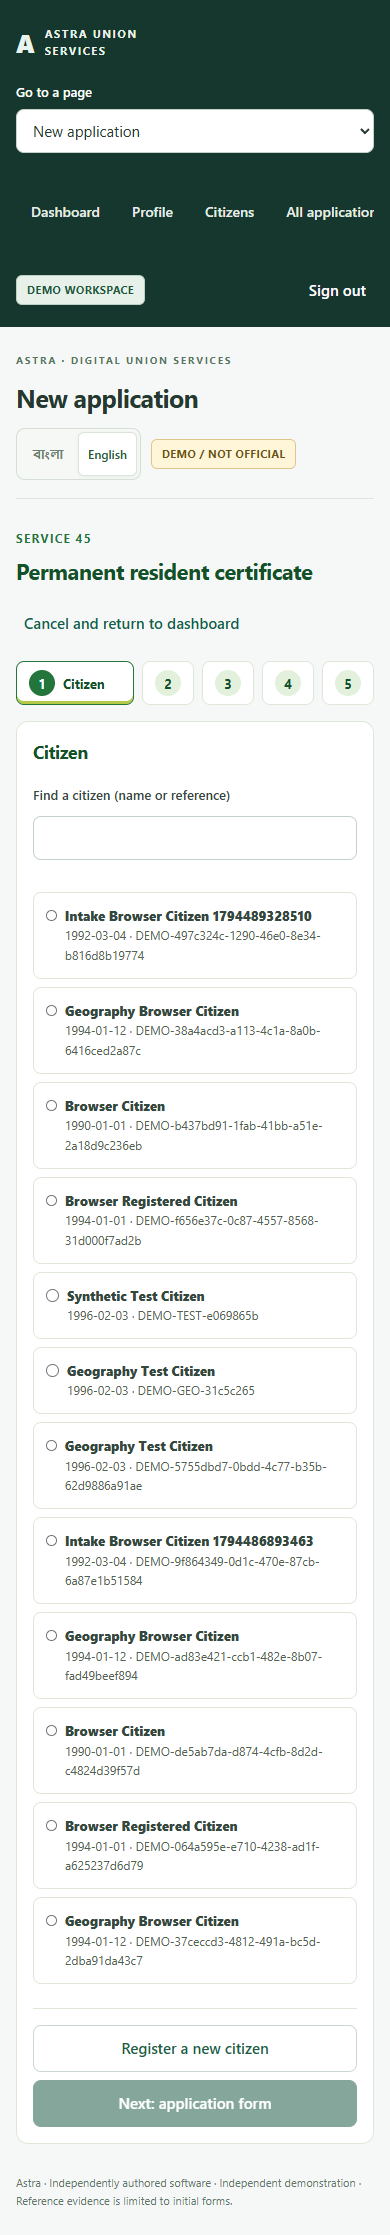
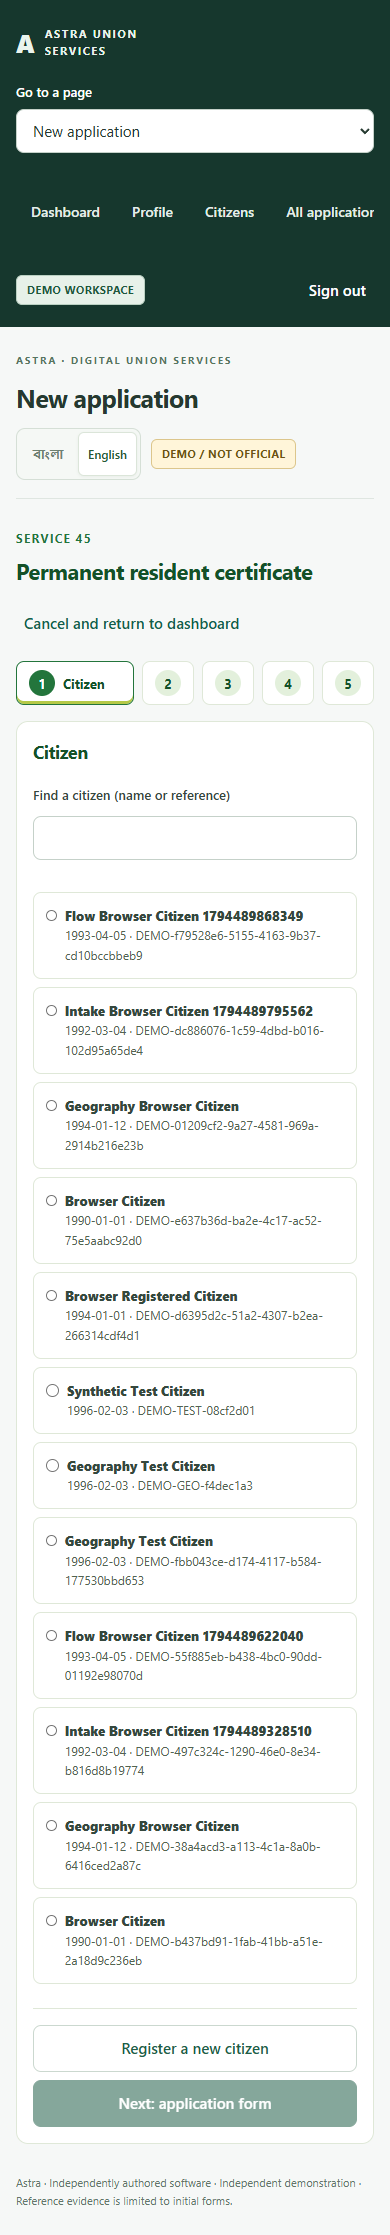
feat: make the approved guided application flow the default
The owner approved slice (iii); it is no longer behind ?preview=flow.

- A dashboard tile now opens the guided flow for that service.
- "Register a new citizen" from the flow opens Citizens with the
  existing "Back to application" banner; after registration the flow
  reopens at the form step with the new citizen selected
  (ServiceFlow initialCitizen). The legacy intake keeps its own return.
- Tests: the flow test runs without a flag and now covers registering a
  citizen and returning to the flow; the dashboard test expects tile 42
  to open the flow.

diff --git a/apps/web/test/service-flow-browser.test.ts b/apps/web/test/service-flow-browser.test.ts
@@ -53,7 +53,7 @@ async function completeFees(page: Page) {
 }
 
 test(
-  "Phase 1 service flow preview: citizen → form → fees → review → submitted, with validation and back navigation",
+  "Phase 1 service flow: citizen → form → fees → review → submitted, validation, back navigation and new-citizen return",
   { timeout: 150000 },
   async () => {
     const browser = await browserInstance();
@@ -61,7 +61,7 @@ test(
       const page = await browser.newPage({ viewport: { width: 1366, height: 900 } });
       const errors: string[] = [];
       page.on("pageerror", (error) => errors.push(error.message));
-      await signIn(page, "?preview=flow");
+      await signIn(page, "");
       await page.locator('.ax-dashboard .ax-tile[data-service="45"]').click();
 
       // Step 1: citizen.
@@ -121,16 +121,42 @@ test(
       await page.getByRole("button", { name: "Open application" }).click();
       await page.getByText(reference.slice(0, 8)).first().waitFor();
 
-      // Without ?preview=flow the dashboard tile still opens the legacy intake page.
-      const plain = await browser.newPage({ viewport: { width: 1366, height: 900 } });
-      await signIn(plain, "");
-      await plain.locator('.ax-dashboard .ax-tile[data-service="45"]').click();
-      await plain.locator(".catalog .service.selected").waitFor();
-      assert.equal(await plain.locator(".ax-flow").count(), 0);
+      // Registering a new citizen from the flow returns to it at the form, with that citizen chosen.
+      await page.getByRole("navigation", { name: "Workspace navigation" }).getByRole("button", { name: "Dashboard" }).click();
+      await page.locator('.ax-dashboard .ax-tile[data-service="42"]').click();
+      await stepHeading(page).getByText("Citizen", { exact: true }).waitFor();
+      await page.getByRole("button", { name: "Register a new citizen", exact: true }).click();
+      const name = `Flow Browser Citizen ${Date.now()}`;
+      await page.getByLabel("Name (English)", { exact: true }).fill(name);
+      await page.getByLabel("Name (Bangla)", { exact: true }).fill("ফ্লো পরীক্ষার নমুনা নাগরিক");
+      await page.getByLabel("Date of birth", { exact: true }).fill("1993-04-05");
+      await page.getByLabel("Address (Bangla)", { exact: true }).fill("নমুনা পরীক্ষার গ্রাম");
+      await page.getByLabel("Address (English)", { exact: true }).fill("Synthetic Flow Village");
+      const union = JSON.parse(fs.readFileSync("data/geo/unions.json", "utf8")).find(
+        (row: any) => row.upazilaCode === "upa-001",
+      );
+      for (const [level, code] of [
+        ["division", "div-01"],
+        ["district", "dis-01"],
+        ["upazila", "upa-001"],
+        ["union", union.code],
+        ["ward", `${union.code}-w01`],
+      ]) {
+        await page.locator(`#citizen-geo-${level} option[value="${code}"]`).waitFor({ state: "attached" });
+        await page.locator(`#citizen-geo-${level}`).selectOption(code);
+      }
+      const registered = page.waitForResponse(
+        (r) => r.url().endsWith("/citizens") && r.request().method() === "POST",
+      );
+      await page.getByRole("button", { name: "Register citizen", exact: true }).click();
+      assert.equal((await registered).status(), 201);
+      await stepHeading(page).getByText("Application form", { exact: true }).waitFor();
+      assert.match((await page.locator(".ax-flow").textContent()) ?? "", new RegExp(name));
+      assert.match((await page.locator(".ax-flow-title").textContent()) ?? "", /Trade licen/);
 
       // Mobile: the stepper collapses and the page does not scroll sideways.
       const mobile = await browser.newPage({ viewport: { width: 390, height: 844 } });
-      await signIn(mobile, "?preview=flow");
+      await signIn(mobile, "");
       await mobile.locator('.ax-dashboard .ax-tile[data-service="45"]').click();
       await mobile.locator(".ax-citizen").first().waitFor();
       assert.equal(

diff --git a/apps/web/src/WorkspaceApp.tsx b/apps/web/src/WorkspaceApp.tsx
@@ -131,9 +131,10 @@ export function WorkspaceApp({
     [wallet, setWallet] = useState<any>(null),
     [billing, setBilling] = useState<any>(null),
     [tenants, setTenants] = useState<any[]>([]);
-  // Phase 1 slice (iii) preview: guided application flow, opt-in with ?preview=flow until approved.
+  // Phase 1 slice (iii), approved: dashboard tiles open the guided application flow.
   const [flowService, setFlowService] = useState<number | null>(null);
-  const flowPreview = new URLSearchParams(location.search).get("preview") === "flow";
+  const [flowCitizen, setFlowCitizen] = useState<any>(null);
+  const [returnToFlow, setReturnToFlow] = useState(false);
   const [selectedService, setSelectedService] = useState(45),
     [preview, setPreview] = useState(false),
     [payload, setPayload] = useState<Record<string, any>>({}),
@@ -421,6 +422,7 @@ export function WorkspaceApp({
   }
   function nav(next: string) {
     setReturnToIntake(false);
+    setReturnToFlow(false);
     setPage(next);
     setDetail(null);
     setMessage("");
@@ -661,11 +663,17 @@ export function WorkspaceApp({
         )}
         {page === "flow" && flowService !== null && (
           <ServiceFlow
+            key={`${flowService}:${flowCitizen?.id ?? ""}`}
             serviceNo={flowService}
+            initialCitizen={flowCitizen}
             tenant={session.tenant}
             localDemo={localDemo}
             onOpenApplication={(id) => void run(() => openApplication(id))}
-            onRegisterCitizen={() => nav("citizens")}
+            onRegisterCitizen={() => {
+              nav("citizens");
+              setReturnToIntake(true);
+              setReturnToFlow(true);
+            }}
             onExit={() => nav("home")}
             onChanged={() => void refresh()}
           />
@@ -678,10 +686,9 @@ export function WorkspaceApp({
             creditBalance={wallet?.balance ?? null}
             onStartService={(serviceNo) => {
               setSelectedService(serviceNo);
-              if (flowPreview) {
-                setFlowService(serviceNo);
-                nav("flow");
-              } else nav("services");
+              setFlowService(serviceNo);
+              setFlowCitizen(null);
+              nav("flow");
             }}
             onOpenCitizens={() => nav("citizens")}
             onOpenApplications={() => openTask("applications")}
@@ -1156,7 +1163,7 @@ export function WorkspaceApp({
                     className="secondary"
                     onClick={() => {
                       setReturnToIntake(false);
-                      nav("services");
+                      nav(returnToFlow ? "flow" : "services");
                     }}
                   >
                     {t("Back to application")}
@@ -1239,7 +1246,16 @@ export function WorkspaceApp({
                             addressBn: "",
                             addressEn: "",
                           });
-                          if (returnToIntake) {
+                          if (returnToIntake && returnToFlow) {
+                            // Back into the guided flow with the new citizen already chosen.
+                            setFlowCitizen(created);
+                            setCitizenSearch("");
+                            setCitizenQuery("");
+                            nav("flow");
+                            setMessage(
+                              "Citizen registered and selected. Complete the application below.",
+                            );
+                          } else if (returnToIntake) {
                             selectApplicant(created.id, created);
                             setCitizenSearch("");
                             setCitizenQuery("");

diff --git a/apps/web/src/ServiceFlow.tsx b/apps/web/src/ServiceFlow.tsx
@@ -32,6 +32,7 @@ const citizenName = (c: any) =>
  */
 export function ServiceFlow({
   serviceNo,
+  initialCitizen = null,
   tenant,
   localDemo,
   onOpenApplication,
@@ -40,6 +41,8 @@ export function ServiceFlow({
   onChanged,
 }: {
   serviceNo: number;
+  /** A citizen registered from inside the flow; the flow resumes at the form with them selected. */
+  initialCitizen?: any;
   tenant: any;
   localDemo: boolean;
   onOpenApplication: (id: string) => void;
@@ -49,10 +52,10 @@ export function ServiceFlow({
 }) {
   useLanguage();
   const schema = getServiceSchema(serviceNo);
-  const [step, setStep] = useState(0);
+  const [step, setStep] = useState(initialCitizen ? 1 : 0);
   const [query, setQuery] = useState("");
   const [found, setFound] = useState<any[] | null>(null);
-  const [citizen, setCitizen] = useState<any>(null);
+  const [citizen, setCitizen] = useState<any>(initialCitizen);
   const [payload, setPayload] = useState<Record<string, any>>({});
   const [issues, setIssues] = useState<readonly ValidationIssue[]>([]);
   const [order, setOrder] = useState<IntakeOrderState | null>(null);

diff --git a/apps/web/test/udc-dashboard-browser.test.ts b/apps/web/test/udc-dashboard-browser.test.ts
@@ -70,10 +70,10 @@ test(
 
       await page.locator(".ax-dashboard-search input").fill("42");
       assert.equal(await page.locator(".ax-dashboard .ax-tile").count(), 1);
+      // Approved slice (iii): a tile opens the guided application flow for that service.
       await page.locator('.ax-dashboard .ax-tile[data-service="42"]').click();
-      await page.locator(".catalog .service.selected").waitFor();
-      assert.equal(await page.locator('.catalog .service[aria-pressed="true"]').count(), 1);
-      assert.match((await page.locator(".catalog .service.selected").textContent()) ?? "", /42/);
+      await page.locator(".ax-flow").waitFor();
+      assert.match((await page.locator(".ax-flow .ax-eyebrow").textContent()) ?? "", /42/);
       assert.equal(await sidebar.locator('[aria-current="page"]').textContent(), "New application");
 
       await sidebar.getByRole("button", { name: "Certificate renewal" }).click();
